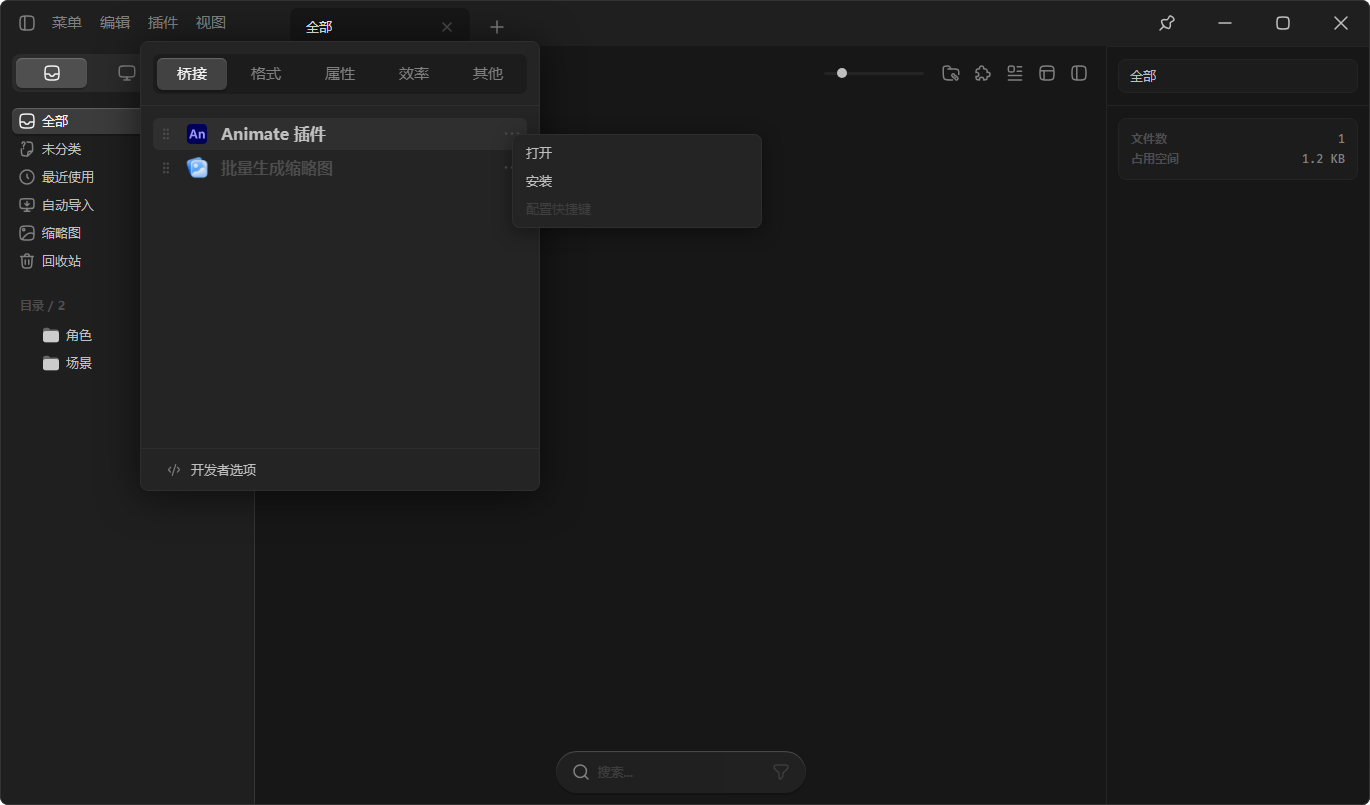
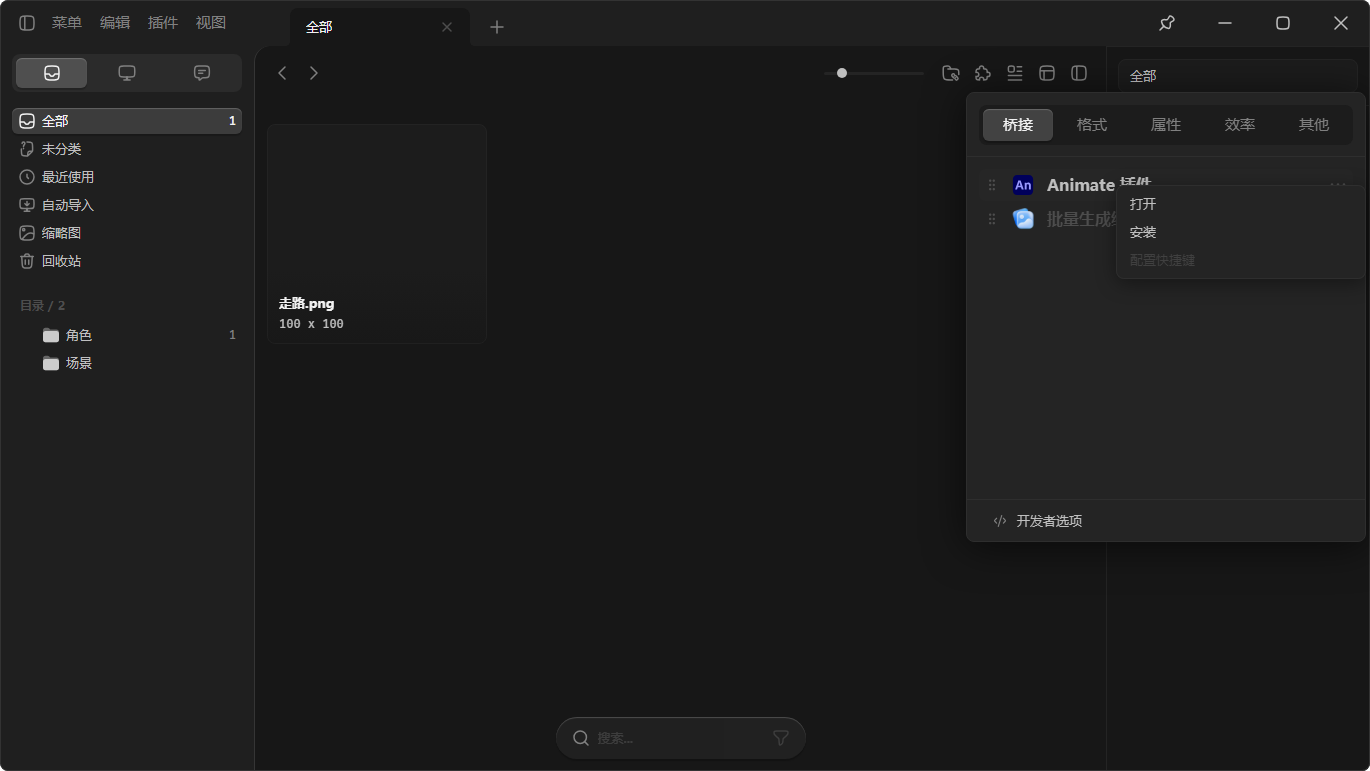
fix(ui): 插件轮走查修订——菜单栏「插件」改上下文菜单（浮层只留工具栏钮）+ capabilities 补 plugin-* 根治子窗口关不了/拖不动
- 菜单栏钮 = menuSpecs/pluginMenu 四项两组（Animate / 批量生成缩略图 │ API 接口文档 / 开发者选项，占位禁用）；400×450 浮层保留于工具栏/预览标题栏 plugin 图标钮
- 子窗口关闭/Esc/拖拽失效根因 = capabilities windows 未含 plugin-animate（Tauri 权限静默 deny），加 plugin-* 修复；速查 §29 登记坑
- 探针改写 40 项全 PASS（菜单段 + 浮层改走工具栏钮）；typecheck 0 错

diff --git a/src/components/SidebarLeft.vue b/src/components/SidebarLeft.vue
@@ -4,8 +4,8 @@
 // 「菜单」2026-09-05 接业务 = 应用主菜单（menuSpecs/appMenu，按钮下方弹出 + toggle）；
 // 「编辑」2026-09-06 接业务 = 编辑菜单（menuSpecs/editMenu，同 toggle 口径）；
 // 「视图」2026-09-06 接业务 = 视图菜单（menuSpecs/viewMenu，同 toggle 口径）；
-// 「插件」2026-09-06 接业务 = 插件列表面板浮层（plugins/PluginListPanel，lib/pluginPanel 单例，
-// 同 toggle 口径；选择模式禁开）；
+// 「插件」2026-09-06 接业务 = 插件菜单（menuSpecs/pluginMenu，同 toggle 口径；同日二轮用户走查
+// 改定：菜单栏钮 = 普通上下文菜单，400×450 插件列表浮层只留工具栏 plugin 图标钮）；
 // 分段控制器 54（SegmentedControl icon 型：资源库 / 工作空间 / AI 对话框——三段可切换，
 // 工作空间 / AI = 空态「功能正在开发中」居中，2026-08-30 用户定；选择模式下禁用切换，
 // 视觉不改——稿无禁用态）；
@@ -25,8 +25,8 @@ import { sidebarShowWidths } from "../lib/useSidebarAnim";
 import { closeContextMenu, menuState, openContextMenu } from "../lib/contextMenus";
 import { appMenuSpec } from "../lib/menuSpecs/appMenu";
 import { editMenuSpec } from "../lib/menuSpecs/editMenu";
+import { pluginMenuSpec } from "../lib/menuSpecs/pluginMenu";
 import { viewMenuSpec } from "../lib/menuSpecs/viewMenu";
-import { openPluginPanel } from "../lib/pluginPanel";
 import { loadLibraries } from "../lib/libraryOps";
 
 const ui = useUiStore();
@@ -35,7 +35,7 @@ const picker = usePickerStore();
 // 菜单栏四文字钮：菜单 = 应用主菜单（2026-09-05 接业务：稿 = 用户当场供稿，spec = menuSpecs/appMenu）；
 // 编辑 = 编辑菜单（2026-09-06 接业务：spec = menuSpecs/editMenu，全项 = useGlobalKeys 快捷键的菜单面）；
 // 视图 = 视图菜单（2026-09-06 接业务：spec = menuSpecs/viewMenu，查看方式 / 标签页 / 面板显隐）；
-// 插件 = 插件列表面板（2026-09-06 接业务：PluginListPanel 非模态浮层，openPluginPanel 内 toggle / 选择模式禁开）
+// 插件 = 插件菜单（2026-09-06 接业务：spec = menuSpecs/pluginMenu；同日二轮走查改定 = 普通上下文菜单）
 
 // 「菜单」钮 toggle：同一按钮再点 = 关闭（trigger 豁免 AppMenu 组外判定，click 到这里做开关）；
 // 选择模式下禁开（白名单收窄：主菜单含切库，速查 §12.1——视觉不改，稿无禁用态）
@@ -61,6 +61,19 @@ function onEditMenu(e: MouseEvent): void {
   if (picker.active) return;
   const rect = el.getBoundingClientRect();
   openContextMenu({ clientX: rect.left, clientY: rect.bottom + 4 }, editMenuSpec(), undefined, { trigger: el });
+}
+
+// 「插件」钮（2026-09-06 接业务，同日二轮走查改定 = 普通上下文菜单，同 toggle 口径）；
+// 选择模式禁开（插件入口与挑选无关，同「菜单/编辑」钮闸——视觉不改，稿无禁用态）
+function onPluginMenu(e: MouseEvent): void {
+  const el = e.currentTarget as HTMLElement;
+  if (menuState.entries && menuState.trigger === el) {
+    closeContextMenu();
+    return;
+  }
+  if (picker.active) return;
+  const rect = el.getBoundingClientRect();
+  openContextMenu({ clientX: rect.left, clientY: rect.bottom + 4 }, pluginMenuSpec(), undefined, { trigger: el });
 }
 
 // 「视图」钮（2026-09-06 接业务）：同 toggle 口径。选择模式下**可开**——§12.1 白名单含
@@ -102,7 +115,7 @@ const bodyRef = ref<HTMLElement>();
       <IconButton name="collapse-sidebar" @click="ui.leftCollapsed = true" />
       <ActionButton label="菜单" variant="ghost" size="sm" @click="onAppMenu" />
       <ActionButton label="编辑" variant="ghost" size="sm" @click="onEditMenu" />
-      <ActionButton label="插件" variant="ghost" size="sm" @click="openPluginPanel" />
+      <ActionButton label="插件" variant="ghost" size="sm" @click="onPluginMenu" />
       <ActionButton label="视图" variant="ghost" size="sm" @click="onViewMenu" />
     </header>
 

diff --git a/src/lib/menuSpecs/pluginMenu.ts b/src/lib/menuSpecs/pluginMenu.ts
@@ -1,0 +1,19 @@
+// 菜单栏「插件」按钮 · 插件菜单 spec（2026-09-06 同日二轮改定：菜单栏钮 = 普通上下文菜单——
+// 用户实机走查定「菜单栏不是弹出插件面板，只要这个上下文菜单」；400×450 插件列表浮层保留在
+// 工具栏 plugin 图标钮（ContentTitleBar / PreviewTitleBar——稿目录本就叫「工具栏展开窗口」）。
+// 四项两组（稿 = 用户当场供稿截图）：Animate（打开详情子窗口）/ 批量生成缩略图（8.2 业务未立项
+// 占位）│ API 接口文档（开源插件体系 API 文档，未立项占位）/ 开发者选项（未立项占位）。
+// 宽度 = 内容自适应（§3 菜单容器口径；本菜单仅四短项，不走 §26 主菜单 250 minW 特例）。
+// 选择模式（picker.active）下「插件」钮禁开（调用方闸，同「菜单/编辑」钮口径）。
+import type { CtxEntry } from "../contextMenus";
+import { openPluginWindow } from "../plugins";
+
+export function pluginMenuSpec(): CtxEntry[] {
+  return [
+    { label: "Animate", action: () => void openPluginWindow("animate") },
+    { label: "批量生成缩略图", disabled: true },
+    "divider",
+    { label: "API 接口文档", disabled: true },
+    { label: "开发者选项", disabled: true },
+  ];
+}

diff --git a/tools/cdp-plugin-panel-probe.py b/tools/cdp-plugin-panel-probe.py
@@ -1,10 +1,11 @@
-# CDP 实测：插件列表面板（2026-09-06 插件窗轮；稿 = Design Token/布局/主窗口/工具栏展开窗口/插件.md）
-# P1 菜单栏「插件」钮弹出（位置 = 钮左缘对齐 + 底 +4 / 尺寸 400×450 / 列表两项 / batch 禁用态）；
-# P1b 工具栏 plugin 钮同开（三入口共用宿主）；P2 同钮 toggle 关；P3 点外关；P4 Esc 关；
-# P5 分类分段切换过滤（格式 = 空态「暂无插件」→ 桥接回两项）；P6 更多菜单三项（打开 / 安装动态文案 /
-# 配置快捷键 disabled）+ 打开发 open_plugin_window + 安装链路（install_cep_plugin + toast + 文案翻卸载）；
-# P7 选择模式（picker.active）禁开。
-# 截图 plugin-panel / plugin-more-menu → tools/style-preview/。
+# CDP 实测：插件菜单 + 插件列表面板（2026-09-06 插件窗轮；同日二轮走查改定——菜单栏「插件」钮
+# = 普通上下文菜单（menuSpecs/pluginMenu 四项两组），400×450 浮层面板只留工具栏 plugin 图标钮）
+# P1 菜单栏「插件」钮出菜单（位置 = 钮左缘 + 底 +4 / 四项两组 / 三项 disabled / Animate 发
+# open_plugin_window）；P1b 菜单三关闭（同钮 toggle / 点外 / Esc）；
+# P2 工具栏 plugin 钮开浮层（位置 / 400×450 / 两项 / batch 禁用 / 默认桥接）+ 浮层三关闭；
+# P3 分类分段切换过滤；P4 更多菜单（打开 / 安装动态文案 / 配置快捷键 disabled + 安装链路 toast 翻转）；
+# P5 选择模式（picker.active）菜单栏钮禁开。
+# 截图 plugin-menu / plugin-panel / plugin-more-menu → tools/style-preview/。
 import asyncio
 import base64
 import json
@@ -183,13 +184,22 @@ async def main():
             PLUGIN_BTN = "[...document.querySelectorAll('.sidebar-left .menu-bar .act-btn')].find((b) => b.textContent.trim() === '插件')"
             TOOLBAR_PLUGIN_BTN = "document.querySelectorAll('.panel-toolbar .btn-group .ic-btn')[1]"
             PANEL = "document.querySelector('.plugin-panel')"
+            MENU = "[...document.querySelectorAll('.app-menu')].find((m) => m.querySelector('.menu-item'))"
 
             async def panel_open():
                 return await ev("document.querySelector('.plugin-panel') != null")
 
+            async def menu_open():
+                return await ev(f"({MENU}) != null")
+
             async def open_panel():
-                await js_click(el_center(PLUGIN_BTN))
+                # 浮层入口 = 工具栏 plugin 图标钮（二轮改定：菜单栏钮改出菜单，浮层只留工具栏）
+                await js_click(el_center(TOOLBAR_PLUGIN_BTN))
                 return await panel_open()
+
+            async def open_menu():
+                await js_click(el_center(PLUGIN_BTN))
+                return await menu_open()
 
             # 启动就绪闸：菜单栏四钮齐 + 内容工具栏在（库重开链完成）
             for _ in range(20):
@@ -197,86 +207,98 @@ async def main():
                     break
                 await asyncio.sleep(0.4)
 
-            # P1 插件钮弹出：位置 / 尺寸 / 两项 / batch 禁用
-            check("P1-1 点「插件」钮面板出", await open_panel(), "panel 未出现")
-            geo = await ev(f"(() => {{ const p = {PANEL}; const b = {PLUGIN_BTN}; if (!p || !b) return null; const pr = p.getBoundingClientRect(); const br = b.getBoundingClientRect(); return {{ pl: pr.left, pt: pr.top, pw: p.offsetWidth, ph: p.offsetHeight, bl: br.left, bb: br.bottom }}; }})()")
-            check("P1-2 位置 = 钮左缘对齐 + 底 +4", geo is not None and abs(geo["pl"] - geo["bl"]) <= 1 and abs(geo["pt"] - geo["bb"] - 4) <= 1, str(geo))
-            check("P1-3 尺寸 400×450", geo is not None and geo["pw"] == 400 and geo["ph"] == 450, str(geo))
-            names = await ev("[...document.querySelectorAll('.plugin-panel .plugin-item .p-name')].map((x) => x.textContent)")
-            check("P1-4 列表两项（Animate 插件 / 批量生成缩略图）", json.dumps(names, ensure_ascii=False) == json.dumps(["Animate 插件", "批量生成缩略图"], ensure_ascii=False), str(names))
-            check("P1-5 第二项禁用态（disabled 类 + pointer-events none）", await ev("(() => { const it = document.querySelectorAll('.plugin-panel .plugin-item')[1]; return it?.classList.contains('disabled') && getComputedStyle(it).pointerEvents === 'none'; })()"))
-            check("P1-6 默认选中「桥接」分段", await ev("[...document.querySelectorAll('.plugin-panel .seg-item')].find((s) => s.textContent.trim() === '桥接')?.classList.contains('on') === true"))
-            await shot("plugin-panel")
+            # P1 菜单栏「插件」钮出上下文菜单（二轮改定）：位置 / 四项两组 / 三项 disabled / Animate 发命令
+            check("P1-1 点「插件」钮菜单出", await open_menu(), "app-menu 未出现")
+            geo = await ev(f"(() => {{ const m = {MENU}; const b = {PLUGIN_BTN}; if (!m || !b) return null; const mr = m.getBoundingClientRect(); const br = b.getBoundingClientRect(); return {{ ml: mr.left, mt: mr.top, bl: br.left, bb: br.bottom }}; }})()")
+            check("P1-2 位置 = 钮左缘对齐 + 底 +4", geo is not None and abs(geo["ml"] - geo["bl"]) <= 1 and abs(geo["mt"] - geo["bb"] - 4) <= 1, str(geo))
+            labels = await ev(f"[...{MENU}?.querySelectorAll('.menu-item .label') ?? []].map((x) => x.textContent)")
+            expect = ["Animate", "批量生成缩略图", "API 接口文档", "开发者选项"]
+            check("P1-3 四项两组", json.dumps(labels, ensure_ascii=False) == json.dumps(expect, ensure_ascii=False) and await ev(f"{MENU}.querySelectorAll('.menu-group').length === 2"), str(labels))
+            disabled = await ev(f"[...{MENU}.querySelectorAll('.menu-item')].filter((m) => m.disabled === true).map((m) => m.querySelector('.label')?.textContent)")
+            check("P1-4 三项 disabled（批量缩略图 / API / 开发者选项）", json.dumps(disabled, ensure_ascii=False) == json.dumps(expect[1:], ensure_ascii=False), str(disabled))
+            check("P1-5 Animate 可用（未禁用）", await ev(f"[...{MENU}.querySelectorAll('.menu-item')].find((m) => m.querySelector('.label')?.textContent === 'Animate')?.disabled === false"))
+            await shot("plugin-menu")
+            await js_click(el_center(f"[...{MENU}.querySelectorAll('.menu-item')].find((m) => m.querySelector('.label')?.textContent === 'Animate')"))
+            calls = await ev("window.__calls.open_plugin_window")
+            check("P1-6 点 Animate = invoke open_plugin_window（pluginId animate）", json.dumps(calls) == json.dumps([{"pluginId": "animate"}]), str(calls))
+            check("P1-7 点击后菜单关闭", not await menu_open())
 
-            # P1b 工具栏 plugin 钮同开（先关再开；位置断言从略——右侧钮 400 宽面板必触发右缘钳制）
-            await esc_close()
-            check("P1b-0 前置：Esc 已关", not await panel_open())
-            await js_click(el_center(TOOLBAR_PLUGIN_BTN))
-            check("P1b 工具栏 plugin 钮开面板", await panel_open())
-            top = await ev(f"(() => {{ const p = {PANEL}; const b = {TOOLBAR_PLUGIN_BTN}; return p && b ? p.getBoundingClientRect().top - b.getBoundingClientRect().bottom : null; }})()")
-            check("P1b-2 弹出在钮下方 +4", top is not None and abs(top - 4) <= 1, str(top))
-
-            # P2 同钮 toggle（菜单栏钮）
-            await esc_close()
-            check("P2-0 前置：已关", not await panel_open())
-            check("P2-1 再点菜单栏「插件」开", await open_panel())
+            # P1b 菜单三关闭：同钮 toggle / 点外 / Esc
+            check("P1b-0 前置：再开菜单", await open_menu())
             await js_click(el_center(PLUGIN_BTN))
-            check("P2-2 同钮再点 toggle 关", not await panel_open())
-
-            # P3 点外关闭（点内容区空白 700,500）
-            check("P3-0 前置：再开", await open_panel())
+            check("P1b-1 同钮再点 toggle 关", not await menu_open())
+            check("P1b-2 前置：再开菜单", await open_menu())
             await mouse("mousePressed", 700, 500); await mouse("mouseReleased", 700, 500)
             await asyncio.sleep(0.4)
-            check("P3 点面板外关闭", not await panel_open())
-
-            # P4 Esc 关闭
-            check("P4-0 前置：再开", await open_panel())
+            check("P1b-3 点菜单外关闭", not await menu_open())
+            check("P1b-4 前置：再开菜单", await open_menu())
             await esc_close()
-            check("P4 Esc 关闭", not await panel_open())
+            check("P1b-5 Esc 关闭", not await menu_open())
 
-            # P5 分类分段切换过滤
-            check("P5-0 前置：再开", await open_panel())
+            # P2 工具栏 plugin 钮开浮层（浮层唯一入口）：位置 / 尺寸 / 两项 / batch 禁用 / 默认桥接
+            check("P2-1 工具栏 plugin 钮开面板", await open_panel())
+            geo = await ev(f"(() => {{ const p = {PANEL}; const b = {TOOLBAR_PLUGIN_BTN}; if (!p || !b) return null; const pr = p.getBoundingClientRect(); const br = b.getBoundingClientRect(); return {{ pt: pr.top, pw: p.offsetWidth, ph: p.offsetHeight, bb: br.bottom }}; }})()")
+            check("P2-2 弹出在钮下方 +4", geo is not None and abs(geo["pt"] - geo["bb"] - 4) <= 1, str(geo))
+            check("P2-3 尺寸 400×450", geo is not None and geo["pw"] == 400 and geo["ph"] == 450, str(geo))
+            names = await ev("[...document.querySelectorAll('.plugin-panel .plugin-item .p-name')].map((x) => x.textContent)")
+            check("P2-4 列表两项（Animate 插件 / 批量生成缩略图）", json.dumps(names, ensure_ascii=False) == json.dumps(["Animate 插件", "批量生成缩略图"], ensure_ascii=False), str(names))
+            check("P2-5 第二项禁用态（disabled 类 + pointer-events none）", await ev("(() => { const it = document.querySelectorAll('.plugin-panel .plugin-item')[1]; return it?.classList.contains('disabled') && getComputedStyle(it).pointerEvents === 'none'; })()"))
+            check("P2-6 默认选中「桥接」分段", await ev("[...document.querySelectorAll('.plugin-panel .seg-item')].find((s) => s.textContent.trim() === '桥接')?.classList.contains('on') === true"))
+            await shot("plugin-panel")
+            # 浮层三关闭（工具栏钮 toggle / 点外 / Esc）
+            await js_click(el_center(TOOLBAR_PLUGIN_BTN))
+            check("P2-7 同钮再点 toggle 关", not await panel_open())
+            check("P2-8 前置：再开", await open_panel())
+            await mouse("mousePressed", 700, 500); await mouse("mouseReleased", 700, 500)
+            await asyncio.sleep(0.4)
+            check("P2-9 点面板外关闭", not await panel_open())
+            check("P2-10 前置：再开", await open_panel())
+            await esc_close()
+            check("P2-11 Esc 关闭", not await panel_open())
+
+            # P3 分类分段切换过滤
+            check("P3-0 前置：再开", await open_panel())
             await js_click(el_center("[...document.querySelectorAll('.plugin-panel .seg-item')].find((s) => s.textContent.trim() === '格式')"))
-            check("P5-1 切「格式」= 空态「暂无插件」", await ev("document.querySelector('.plugin-panel .list-empty')?.textContent === '暂无插件'"))
-            check("P5-2 空态下无 item", await ev("document.querySelectorAll('.plugin-panel .plugin-item').length === 0"))
+            check("P3-1 切「格式」= 空态「暂无插件」", await ev("document.querySelector('.plugin-panel .list-empty')?.textContent === '暂无插件'"))
+            check("P3-2 空态下无 item", await ev("document.querySelectorAll('.plugin-panel .plugin-item').length === 0"))
             await js_click(el_center("[...document.querySelectorAll('.plugin-panel .seg-item')].find((s) => s.textContent.trim() === '桥接')"))
-            check("P5-3 切回「桥接」= 两项回来", await ev("document.querySelectorAll('.plugin-panel .plugin-item').length === 2"))
+            check("P3-3 切回「桥接」= 两项回来", await ev("document.querySelectorAll('.plugin-panel .plugin-item').length === 2"))
 
-            # P6 更多菜单：三项 + 禁用 + 打开发命令 + 安装链路文案翻转
+            # P4 更多菜单：三项 + 禁用 + 打开发命令 + 安装链路文案翻转
             await js_click(el_center("document.querySelector('.plugin-panel .plugin-item .more-btn')"))
             ctx = "[...document.querySelectorAll('.app-menu')].find((m) => m.querySelector('.menu-item'))"
             labels = await ev(f"[...{ctx}?.querySelectorAll('.menu-item .label') ?? []].map((x) => x.textContent)")
-            check("P6-1 更多菜单三项（打开 / 安装 / 配置快捷键）", json.dumps(labels, ensure_ascii=False) == json.dumps(["打开", "安装", "配置快捷键"], ensure_ascii=False), str(labels))
-            check("P6-2 配置快捷键 disabled 占位", await ev(f"[...{ctx}.querySelectorAll('.menu-item')].find((m) => m.textContent.includes('配置快捷键'))?.disabled === true"))
+            check("P4-1 更多菜单三项（打开 / 安装 / 配置快捷键）", json.dumps(labels, ensure_ascii=False) == json.dumps(["打开", "安装", "配置快捷键"], ensure_ascii=False), str(labels))
+            check("P4-2 配置快捷键 disabled 占位", await ev(f"[...{ctx}.querySelectorAll('.menu-item')].find((m) => m.textContent.includes('配置快捷键'))?.disabled === true"))
             await shot("plugin-more-menu")
             await js_click(el_center(f"[...{ctx}.querySelectorAll('.menu-item')].find((m) => m.querySelector('.label')?.textContent === '打开')"))
             calls = await ev("window.__calls.open_plugin_window")
-            check("P6-3 打开 = invoke open_plugin_window（pluginId animate）", json.dumps(calls) == json.dumps([{"pluginId": "animate"}]), str(calls))
-            check("P6-4 打开后浮层与菜单同关", not await panel_open() and await ev("document.querySelectorAll('.app-menu').length === 0"))
+            check("P4-3 打开 = invoke open_plugin_window（P1 菜单一次 + 本次 = 两条）", json.dumps(calls) == json.dumps([{"pluginId": "animate"}, {"pluginId": "animate"}]), str(calls))
+            check("P4-4 打开后浮层与菜单同关", not await panel_open() and await ev("document.querySelectorAll('.app-menu').length === 0"))
             # 安装链路：未安装 =「安装」→ 点击发 install_cep_plugin + toast；再开菜单文案翻「卸载」
-            check("P6-5 前置：再开面板", await open_panel())
+            check("P4-5 前置：再开面板", await open_panel())
             await js_click(el_center("document.querySelector('.plugin-panel .plugin-item .more-btn')"))
             await js_click(el_center(f"[...{ctx}.querySelectorAll('.menu-item')].find((m) => m.querySelector('.label')?.textContent === '安装')"))
             await asyncio.sleep(0.5)
-            check("P6-6 安装 = invoke install_cep_plugin", await ev("window.__calls.install_cep_plugin.length === 1"))
-            check("P6-7 安装成功 toast", await ev("[...document.querySelectorAll('.toast')].some((t) => t.textContent.includes('CEP 插件已安装'))"), str(await ev("[...document.querySelectorAll('.toast')].map((t) => t.textContent.trim())")))
+            check("P4-6 安装 = invoke install_cep_plugin", await ev("window.__calls.install_cep_plugin.length === 1"))
+            check("P4-7 安装成功 toast", await ev("[...document.querySelectorAll('.toast')].some((t) => t.textContent.includes('CEP 插件已安装'))"), str(await ev("[...document.querySelectorAll('.toast')].map((t) => t.textContent.trim())")))
             await ev("document.querySelectorAll('.toast .close').forEach((b) => b.click())")
-            check("P6-8 前置：再开面板", await open_panel())
+            check("P4-8 前置：再开面板", await open_panel())
             await js_click(el_center("document.querySelector('.plugin-panel .plugin-item .more-btn')"))
             labels = await ev(f"[...{ctx}?.querySelectorAll('.menu-item .label') ?? []].map((x) => x.textContent)")
-            check("P6-9 已安装文案翻「卸载」", json.dumps(labels, ensure_ascii=False) == json.dumps(["打开", "卸载", "配置快捷键"], ensure_ascii=False), str(labels))
+            check("P4-9 已安装文案翻「卸载」", json.dumps(labels, ensure_ascii=False) == json.dumps(["打开", "卸载", "配置快捷键"], ensure_ascii=False), str(labels))
             await esc_close()
 
-            # P7 选择模式禁开：进文件夹视口 → 工具栏「添加文件/档案链接」进 picker → 插件钮不开
+            # P5 选择模式禁开：进文件夹视口 → 工具栏「添加文件/档案链接」进 picker → 菜单栏插件钮不开菜单
             await js_click(el_center("document.querySelector('.block.tree .tree-item[data-folder-id=\"f1\"]')"))
             await asyncio.sleep(0.6)
             await js_click(el_center("document.querySelectorAll('.panel-toolbar .btn-group .ic-btn')[0]"))
             await asyncio.sleep(0.6)
-            check("P7-0 前置：picker 已进入（.window.picking）", await ev("document.querySelector('.window')?.classList.contains('picking') === true"))
+            check("P5-0 前置：picker 已进入（.window.picking）", await ev("document.querySelector('.window')?.classList.contains('picking') === true"))
             await js_click(el_center(PLUGIN_BTN))
-            check("P7-1 选择模式下点「插件」不开面板", not await panel_open())
+            check("P5-1 选择模式下点「插件」不开菜单", not await menu_open())
             await esc_close()  # 退出 picker 清场
-            check("P7-2 Esc 退出 picker 清场", await ev("document.querySelector('.window')?.classList.contains('picking') === false"))
+            check("P5-2 Esc 退出 picker 清场", await ev("document.querySelector('.window')?.classList.contains('picking') === false"))
 
             print("----")
             print("FAIL:", fails if fails else "无")

diff --git a/docs/05_项目进度/00_当前状态.md b/docs/05_项目进度/00_当前状态.md
@@ -1,6 +1,6 @@
 > 任务完成即更新本文件。开发中发现的遗漏细节记入 [[09_待办细节清单]]，按迭代消化，不在代码里就地糊（见 01_开发规范 第 4 条）。
 
-- **菜单栏插件轮 + CEP 设置重构（2026-09-06，feat/new-ui，稿 = 工具栏展开窗口/插件.md + Animate 插件.md；实机走查 26-29 四项闭环）**：菜单栏/工具栏/预览标题栏三处插件钮统一接 `PluginListPanel`（plugins/ 新组件，400×450 **非模态浮层**：AppMenu 壳 + 真 border/大阴影、五档分类分段（SegmentedControl 扩 tone="g2"）、抓手拖拽排序落 **ui.pluginOrder** 持久化、更多菜单（打开/安装或卸载动态/配置快捷键占位）、开发者选项点亮不接业务、picker 禁开）；「批量生成缩略图」置灰（8.2 未立项）。单击 Animate 插件 → **独立子窗口**（用户定：插件 ≠ Animate，开源后用户可写面板——新命令 `open_plugin_window`，预览窗同款 label 单例 / `?plugin=` 分发 / 544×538 / 云母）：教程/功能/路径（installDir 动态）+ 关闭/卸载/安装（ActionButton 扩 cancel/danger）。**CepSettingsDialog 退役**（设置挪 CEP）。**CEP 批次 4**：只读参数行 → 导出设置分组可编辑（时长/大小/帧率留空=跟随文档，失焦即存）——新 WS `saveSettings` → 后端 `validate()` 共用护栏 → config 单写点 → 广播回显；**cepSettings 本地缓存兜底**（PRD 口径兑现，「每次重启都要重新设置」闭环）；比例档固定像素表（1280 长边基准）+ 首档「自适应」按元件尺寸建文档；撑满修复（缩放 0.9→100% contain）；新建文档继承/指定帧率；多选 segMerge「分别建立/整合到一个文档」（jsx exportMerged 整体 contain 单条入库）。**maxEdge 尺寸上限全链废除**（用户定，后端降级链纯质量三档+抽帧）。cargo **450 绿** / typecheck 0 错 / 新探针 cdp-plugin-panel-probe **32 项全 PASS**；未验证项交实机走查（CEP 回写全链路 / exportMerged 实机 / 子窗口开窗 / 真安装卸载 / 拖拽手感）。速查表 §29 新立 / 07 接口 / 日志同步 / 走查 26-29 勾选（用户授权）。预览页 PreviewPlugins 新展区；图标入库 4 个（grip/dev-options 转 currentColor + animate-plugin/batch-thumbnails 原值）。**下一步：用户实机走查（未验证项 + item hover l-a3 色档 / 更多钮 18 盒档 / 位图图标禁用观感等待定点）**。
+- **菜单栏插件轮 + CEP 设置重构（2026-09-06，feat/new-ui，稿 = 工具栏展开窗口/插件.md + Animate 插件.md；实机走查 26-29 四项闭环）**：**菜单栏「插件」钮 = 普通上下文菜单**（同日二轮用户走查改定：「菜单栏不是弹出插件插口」——`menuSpecs/pluginMenu.ts` 四项两组：Animate（开详情子窗口）/ 批量生成缩略图占位 │ API 接口文档 / 开发者选项占位，内容自适应宽，toggle/picker 禁开同他钮）；**400×450 插件列表浮层只留工具栏 / 预览标题栏 plugin 图标钮**（`PluginListPanel`：五档分类分段（SegmentedControl 扩 tone="g2"）、抓手拖拽排序落 **ui.pluginOrder** 持久化、更多菜单（打开/安装或卸载动态/配置快捷键占位）、开发者选项点亮不接业务）；「批量生成缩略图」置灰（8.2 未立项）。单击 Animate 插件 → **独立子窗口**（用户定：插件 ≠ Animate，开源后用户可写面板——新命令 `open_plugin_window`，预览窗同款 label 单例 / `?plugin=` 分发 / 544×538 / 云母）：教程/功能/路径（installDir 动态）+ 关闭/卸载/安装（ActionButton 扩 cancel/danger）；**capabilities `windows` 补 `plugin-*`**（同日二轮实机坑：未授权 → allow-close / allow-start-dragging 静默 deny = 关不了窗、拖不动，速查 §29 登记）。**CepSettingsDialog 退役**（设置挪 CEP）。**CEP 批次 4**：只读参数行 → 导出设置分组可编辑（时长/大小/帧率留空=跟随文档，失焦即存）——新 WS `saveSettings` → 后端 `validate()` 共用护栏 → config 单写点 → 广播回显；**cepSettings 本地缓存兜底**（PRD 口径兑现，「每次重启都要重新设置」闭环）；比例档固定像素表（1280 长边基准）+ 首档「自适应」按元件尺寸建文档；撑满修复（缩放 0.9→100% contain）；新建文档继承/指定帧率；多选 segMerge「分别建立/整合到一个文档」（jsx exportMerged 整体 contain 单条入库）。**maxEdge 尺寸上限全链废除**（用户定，后端降级链纯质量三档+抽帧）。cargo **450 绿** / typecheck 0 错 / 探针 cdp-plugin-panel-probe 二轮改写 **40 项全 PASS**；未验证项交实机走查（CEP 回写全链路 / exportMerged 实机 / 子窗口关闭与拖拽 / 真安装卸载 / 浮层拖拽手感）。速查表 §29 新立 / 07 接口 / 日志同步 / 走查 26-29 勾选（用户授权）。预览页 PreviewPlugins 新展区；图标入库 4 个（grip/dev-options 转 currentColor + animate-plugin/batch-thumbnails 原值）。**下一步：用户实机走查（未验证项 + item hover l-a3 色档 / 更多钮 18 盒档 / 位图图标禁用观感等待定点）**。
 
 - **菜单栏视图菜单轮（2026-09-06，feat/new-ui，稿 = 用户当场供稿截图）**：菜单栏「视图」钮接视图菜单（spec 新立 `menuSpecs/viewMenu.ts`）——三组九项：大纲管理（= 侧栏区块管理弹窗）/ 分组管理（锁当前文件夹视口，非文件夹禁用）/ 信息查看管理（未立项占位）│ 查看方式 ▸（布局四档 **Alt+1~4**（useGlobalKeys 新 onViewKeys）/ 排序 8 键 + 升降序（自定义档实时禁用）/ 时间显示 / 简介五档（标签占位）/ 显示扩展名·角标·**链接标识（新 ui.showLinkBadge 徽章总闸）**·子文件夹内容 / 自动播放两项——全项 = ui store 既有字段菜单面，与 ViewOptionsMenu 同状态源）/ 标签页 ▸（submenu 函数实时清单：点行激活（tabs 新 activateTab）/ 锁定 / 关闭三项（锁定禁关·单页禁批量）/ 左右·上下分屏）│ 显示侧边栏 / 显示信息面板 / **始终显示搜索框**（新 ui.showSearchBar：关 = 悬浮栏隐藏 + toast 告知，Ctrl+F 唤出下浮入 / Esc 收回下沉出——用户当场定案）。**新机制 = CtxEntry 函数化**（checked/disabled/submenu 支持函数，渲染期求值响应式追踪——keepOpen 菜单对勾/禁用实时刷新；folder.ts 排序依据 menuState 回写 hack 废除迁移）。**选择模式分流**：视图钮可开（§12.1 白名单含查看方式），管理三件 / 标签页 / 侧栏收展各自禁用。SidebarLeft 视图钮 = 同 toggle 机制；插件钮仍点亮不接业务（四钮仅剩）；预览页 PreviewMenus 补视图菜单五形态陈列。vue-tsc 0 错；探针 cdp-app-menu-probe +V 段 43 项（M65+E22 回归绿 + V1~V5-1 实测 PASS）；**V5-2 起 headless CDP 环境不稳未跑通**（截图挂起 / 偶发不回包）——探针同修 send 60s 超时兜底 + 无缓冲跑法。速查表 §28 新立 / 日志同步；ui-refactor 技能加第 9 节「探针与验证纪律」（用户定：有限修复 / 跑不通换路 + 如实列未验证项 / 必要验证一过立即收尾）。**当日用户实机走查全项通过（布局 Alt+1~4 / 对勾实时 / 链接标识总闸 / 标签页子菜单 / 管理弹窗入口 / 侧栏收展 / 搜索框显隐 toast / 选择模式分流，无问题项）。本轮闭环**。
 

diff --git a/docs/02_样式与布局/03_新面板口径速查.md b/docs/02_样式与布局/03_新面板口径速查.md
@@ -350,14 +350,16 @@
 
 ## 29. 阶段七菜单栏插件轮（2026-09-06；稿 = 工具栏展开窗口/插件.md + Animate 插件.md）
 
-- **菜单栏「插件」钮接业务 = 插件列表面板（`plugins/PluginListPanel.vue`，400×450 非模态浮层）**：壳 = AppMenu 机制（点外/Esc/同钮 toggle 关、trigger 豁免、anchor = 按钮 rect 左缘 + 底 +4）+ g3 底/1px g5 真 border/大阴影覆盖（§1 弹窗真 border 口径）；picker.active 禁开。浮层全局状态抽 `lib/pluginPanel.ts`（仿 menuState；菜单栏 / 工具栏 / 预览标题栏三处插件钮统一入口，ContentTitleBar 旧 CepSettingsDialog 入口同期废除）。
+- **菜单栏「插件」钮 = 普通上下文菜单（同日二轮用户实机走查改定：`menuSpecs/pluginMenu.ts`，四项两组——Animate（开详情子窗口）/ 批量生成缩略图（8.2 未立项占位）│ API 接口文档 / 开发者选项（未立项占位））**：「菜单栏不是弹出插件面板，只要这个上下文菜单」——宽度内容自适应（§3，不走 §26 主菜单 250 minW 特例）；同钮 toggle / trigger 豁免 / picker 禁开（同「菜单/编辑」钮闸）。**400×450 插件列表浮层只留工具栏 / 预览标题栏 plugin 图标钮**（ContentTitleBar / PreviewTitleBar——稿目录本叫「工具栏展开窗口」；菜单栏钮与浮层自此分离）。
+- **插件列表面板（`plugins/PluginListPanel.vue`，400×450 非模态浮层）**：壳 = AppMenu 机制（点外/Esc/同钮 toggle 关、trigger 豁免、anchor = 按钮 rect 左缘 + 底 +4）+ g3 底/1px g5 真 border/大阴影覆盖（§1 弹窗真 border 口径）；picker.active 禁开。浮层全局状态抽 `lib/pluginPanel.ts`（仿 menuState；ContentTitleBar 旧 CepSettingsDialog 入口同期废除）。
 - **顶部分类分段 = SegmentedControl 扩 `tone="g2"`**（text 型容器底色档：g2 = 稿值 通用/二级，默认 g3 不动存量）；五档「桥接/格式/属性/效率/其他」过滤列表，空档显「暂无插件」（13/18 四级居中）。
 - **插件 item**（376×32 圆角 6）：抓手 14 盒（grip 新图标，四级）+ 图标 24 盒 + 名称 16/22 Bold 二级 + 更多钮 18 盒（IconButton bare lg，四级）。**hover 底 = `--n-l-a3`**（稿未画，就近套 §3 菜单项口径——**待用户实机走查确认**）。禁用项 = 名称降四级 + 不响应（位图图标不吃 color 降档，仅名称降——位图禁用观感未定案，记走查）。
 - **抓手拖拽排序 = blockDrag/libDrag 范式**（本地 pointer 追踪 + 让位动画 0.18s 沿先例，稿未给值）；顺序落 `ui.pluginOrder: string[]` 持久化（渲染 = pluginOrder 过滤 + 数据源补尾）。
 - **更多菜单**：打开 / 安装或卸载（按 Animate 安装态动态文案，install_cep_plugin / uninstall_cep_plugin + toast）/ 配置快捷键（disabled 占位，业务未立项）；底部「开发者选项」点亮不接业务（菜单栏惯例）。**插件数据源 = `lib/plugins.ts` 写死内置两项**（开源用户插件扫描另立项）；「批量生成缩略图」item 置灰禁用（8.2 业务未立项，用户定）。
 - **插件详情 = Tauri 独立子窗口（用户定案：插件 ≠ Animate，开源后用户可写面板，独立窗口自由度最大 + 可与外部软件并排操作）**：命令 `open_plugin_window`（label `plugin-{id}` 单例聚焦 / `?plugin=` query 分发 / 白名单现仅 animate / 544×538 / 无边框 transparent shadow 云母 apply——全沿 open_preview_window 机制与 async 死锁教训）；前端根 = `plugins/AnimatePluginWindow.vue`（标题行挂 data-tauri-drag-region；关闭 = 底部钮 + Esc；ToastStack 子窗口自挂）。
+- **新子窗口必须进 capabilities `windows` 列表（同日二轮实机踩坑）**：`src-tauri/capabilities/default.json` 原仅 `["main", "preview-*"]`——`plugin-animate` 未授权 → `core:window:allow-close` / `allow-start-dragging` 被 deny，**关闭钮 / Esc 关窗 / data-tauri-drag-region 拖拽全部静默失效**（用户实机报「点关闭关不了、无法拖动」根因）。加 `"plugin-*"` 修复。错误信号：新窗 label 的窗口 API 调用无报错无效果。
 - **ActionButton 扩变体 `cancel`（通用/五级底 + 立体感-通用 + 二级）与 `danger`（状态/禁止底 + 立体感-主要按钮 + 一级）**——详情窗按钮行 关闭 128×38 / 卸载 / 安装 CEP 插件 200×38（稿值；hover 稿未画不做，§15 口径）。
 - **CepSettingsDialog 退役删除**（CEP 导出设置挪 CEP 面板内编辑——经 WS `saveSettings` 回写 config 单写点；安装/卸载并入详情子窗口与更多菜单）。`CepInstallStatus` 加 `installDir` 字段（详情窗「路径」组）；Temp 路径 = 库 root + `\temp\cep-out`（未开库显「未开库」）。
 - **CEP 侧（批次 4，panel.js/host.jsx）**：导出设置分组（时长秒 / 大小 MB / 帧率留空=跟随文档）失焦/回车即存 + **localStorage cepSettings 缓存兜底**（PRD 口径兑现）+ 断连禁用；比例档固定像素表（1280 长边基准）+ 首档「自适应」（-1,-1 信号 jsx 读元件尺寸）；撑满修复（缩放居中 0.9 → 100% contain）；新建文档帧率 = 设置 fps（0 = 跟随原文档，修 createDocument 不继承隐患）；多选 segMerge「分别建立 / 整合到一个文档」（jsx exportMerged 整体包围盒 contain，单条入库）。**maxEdge 尺寸上限全链废除**（用户定：不再限制导出像素，WebP 合成保留体积压缩；后端降级链纯质量三档 + 抽帧）。
 - **预览页**：PreviewPlugins 新展区（面板静态复刻可切分类 + item 三态 + 详情窗静态复刻，PreviewModals 手法）。
-- **探针**：`cdp-plugin-panel-probe.py` **32 项全 PASS**（P1 弹出位/尺寸/双 item/禁用 / P2 toggle / P3 点外关 / P4 Esc / P5 分类过滤 / P6 更多菜单三项 / P7 picker 禁开）+ 截图 plugin-panel / plugin-more-menu。未覆盖交走查：抓手拖拽手感 / 子窗口实机 / 真安装卸载 / CEP 全链路。
+- **探针**：`cdp-plugin-panel-probe.py` **40 项全 PASS**（二轮改写：P1 菜单栏插件菜单 位置/四项两组/三 disabled/Animate 发命令 + P1b 菜单三关闭；P2 工具栏钮开浮层 + 浮层三关闭；P3 分类过滤；P4 更多菜单 + 安装链路；P5 picker 禁开）+ 截图 plugin-menu / plugin-panel / plugin-more-menu。未覆盖交走查：抓手拖拽手感 / 子窗口实机（capabilities 修复后关闭与拖拽）/ 真安装卸载 / CEP 全链路。

diff --git a/docs/04_开发日志/2026-09-06.md b/docs/04_开发日志/2026-09-06.md
@@ -47,3 +47,10 @@
 **验证**：`cargo test` **450 绿**（+1：cepExport 兼容与护栏）；`pnpm typecheck` 0 错；新探针 `cdp-plugin-panel-probe.py` **32 项全 PASS**（P1 弹出位/尺寸/双 item/禁用态 / P2 toggle / P3 点外关 / P4 Esc / P5 分类过滤 / P6 更多菜单 / P7 picker 禁开）+ 截图 plugin-panel / plugin-more-menu 目验。**未验证项交实机走查**：CEP 设置回写全链路 / exportMerged 实机（matrix 还原保真、多图层粘贴、含旋转元件）/ 撑满与自适应档贴边观感 / 详情子窗口实机（云母透底 / 缩放 / Esc）/ 真安装卸载链路 / 抓手拖拽手感与 pluginOrder 持久化。
 
 **文档**：07 接口（cepExport 新结构 / saveSettings·settingsError / uninstall / open_plugin_window / 降级链去尺寸档）/ 速查表 §29 新立 / 实机走查 26-29 勾选（用户授权）/ 05 当前状态同步。**下一步：用户实机走查（上述未验证项 + 面板观感 + 更多钮 18 盒档确认等 §29 待定点）**。
+
+### 同日二轮（用户实机走查两条修订）
+
+1. **菜单栏「插件」钮改普通上下文菜单**（用户：「菜单栏不是弹出插件插口，只要这个上下文菜单」+ 当场供稿截图）——新 spec `menuSpecs/pluginMenu.ts`：四项两组 = Animate（开详情子窗口）/ 批量生成缩略图（占位）│ API 接口文档 / 开发者选项（占位）；宽度内容自适应（四短项不走 §26 的 250 minW）；同 toggle / trigger 豁免 / picker 禁开机制。**400×450 浮层保留在工具栏与预览标题栏 plugin 图标钮**（稿目录本叫「工具栏展开窗口」，用户确认「浮层在工具栏，不用动」）。
+2. **子窗口关闭失效 + 无法拖动根治**：根因 = `capabilities/default.json` 的 `windows` 仅 `main` / `preview-*`，`plugin-animate` 未授权 → `allow-close` / `allow-start-dragging` 被 deny（Tauri 权限拒绝**静默无报错**，探针桩也拦不到——纯实机才能发现）。加 `"plugin-*"` 修复；速查表 §29 登记（新子窗口 label 必进 capabilities，错误信号 = 窗口 API 调用无报错无效果）。
+
+**验证**：`pnpm typecheck` 0 错；探针改写后 **40 项全 PASS**（P1 菜单七项断言 + P1b 菜单三关闭；P2 工具栏钮开浮层 + 浮层三关闭；P3 分类过滤；P4 更多菜单与安装链路；P5 picker 禁开菜单）+ 截图 plugin-menu 目验贴稿。**交实机走查**：子窗口关闭 / 标题行拖拽 / Esc（capabilities 修复后）。
